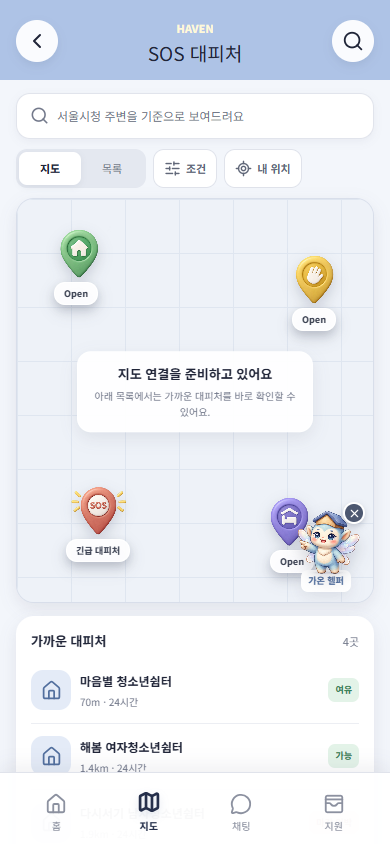
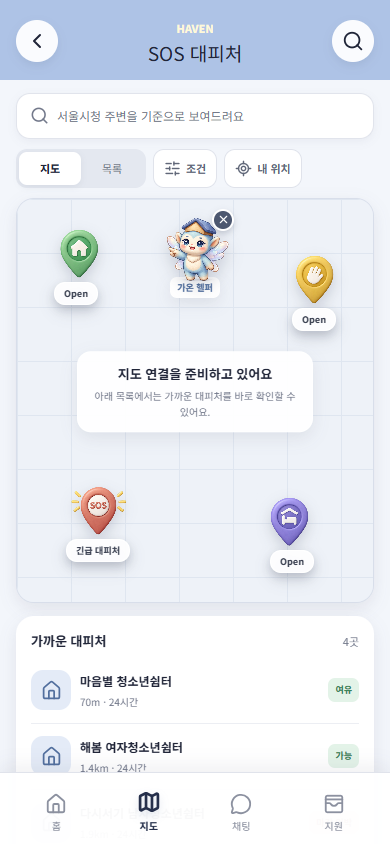
fix: reposition map chat floating helper

Changed region(s): [[0.7692, 0.5853, 0.9538, 0.7085], [0.4308, 0.2464, 0.6154, 0.3697]]

diff --git a/src/styles.css b/src/styles.css
@@ -188,7 +188,7 @@ button:focus-visible, a:focus-visible, input:focus-visible { outline: 3px solid 
 .fallback-marker-4 { right: 37px; bottom: 25px; }
 .map-legend { position: absolute; z-index: 5; left: 10px; top: 10px; padding: 7px 9px; display: flex; align-items: center; gap: 5px; border-radius: 9px; background: rgba(255,255,255,.94); box-shadow: var(--soft-shadow); font-size: 10px; font-weight: 700; }
 .map-legend span { width: 8px; height: 8px; border-radius: 50%; background: var(--green); }
-.map-companion { position: absolute; z-index: 7; right: 10px; bottom: 10px; display: flex; flex-direction: column; align-items: center; }
+.map-companion { position: absolute; z-index: 7; top: 12px; left: 50%; display: flex; flex-direction: column; align-items: center; transform: translateX(-50%); }
 .map-companion-button { padding: 0; display: flex; flex-direction: column; align-items: center; border: 0; background: transparent; cursor: pointer; }
 .map-companion-button .gaon-mascot { width: 74px; height: 74px; filter: drop-shadow(0 7px 8px rgba(48,55,78,.2)); animation: mascot-breathe 3s ease-in-out infinite; }
 .map-companion .map-companion-label { margin-top: -8px; padding: 4px 7px; border-radius: 7px; background: #fff; box-shadow: var(--soft-shadow); color: var(--blue-dark); font-size: 9px; font-weight: 800; }
